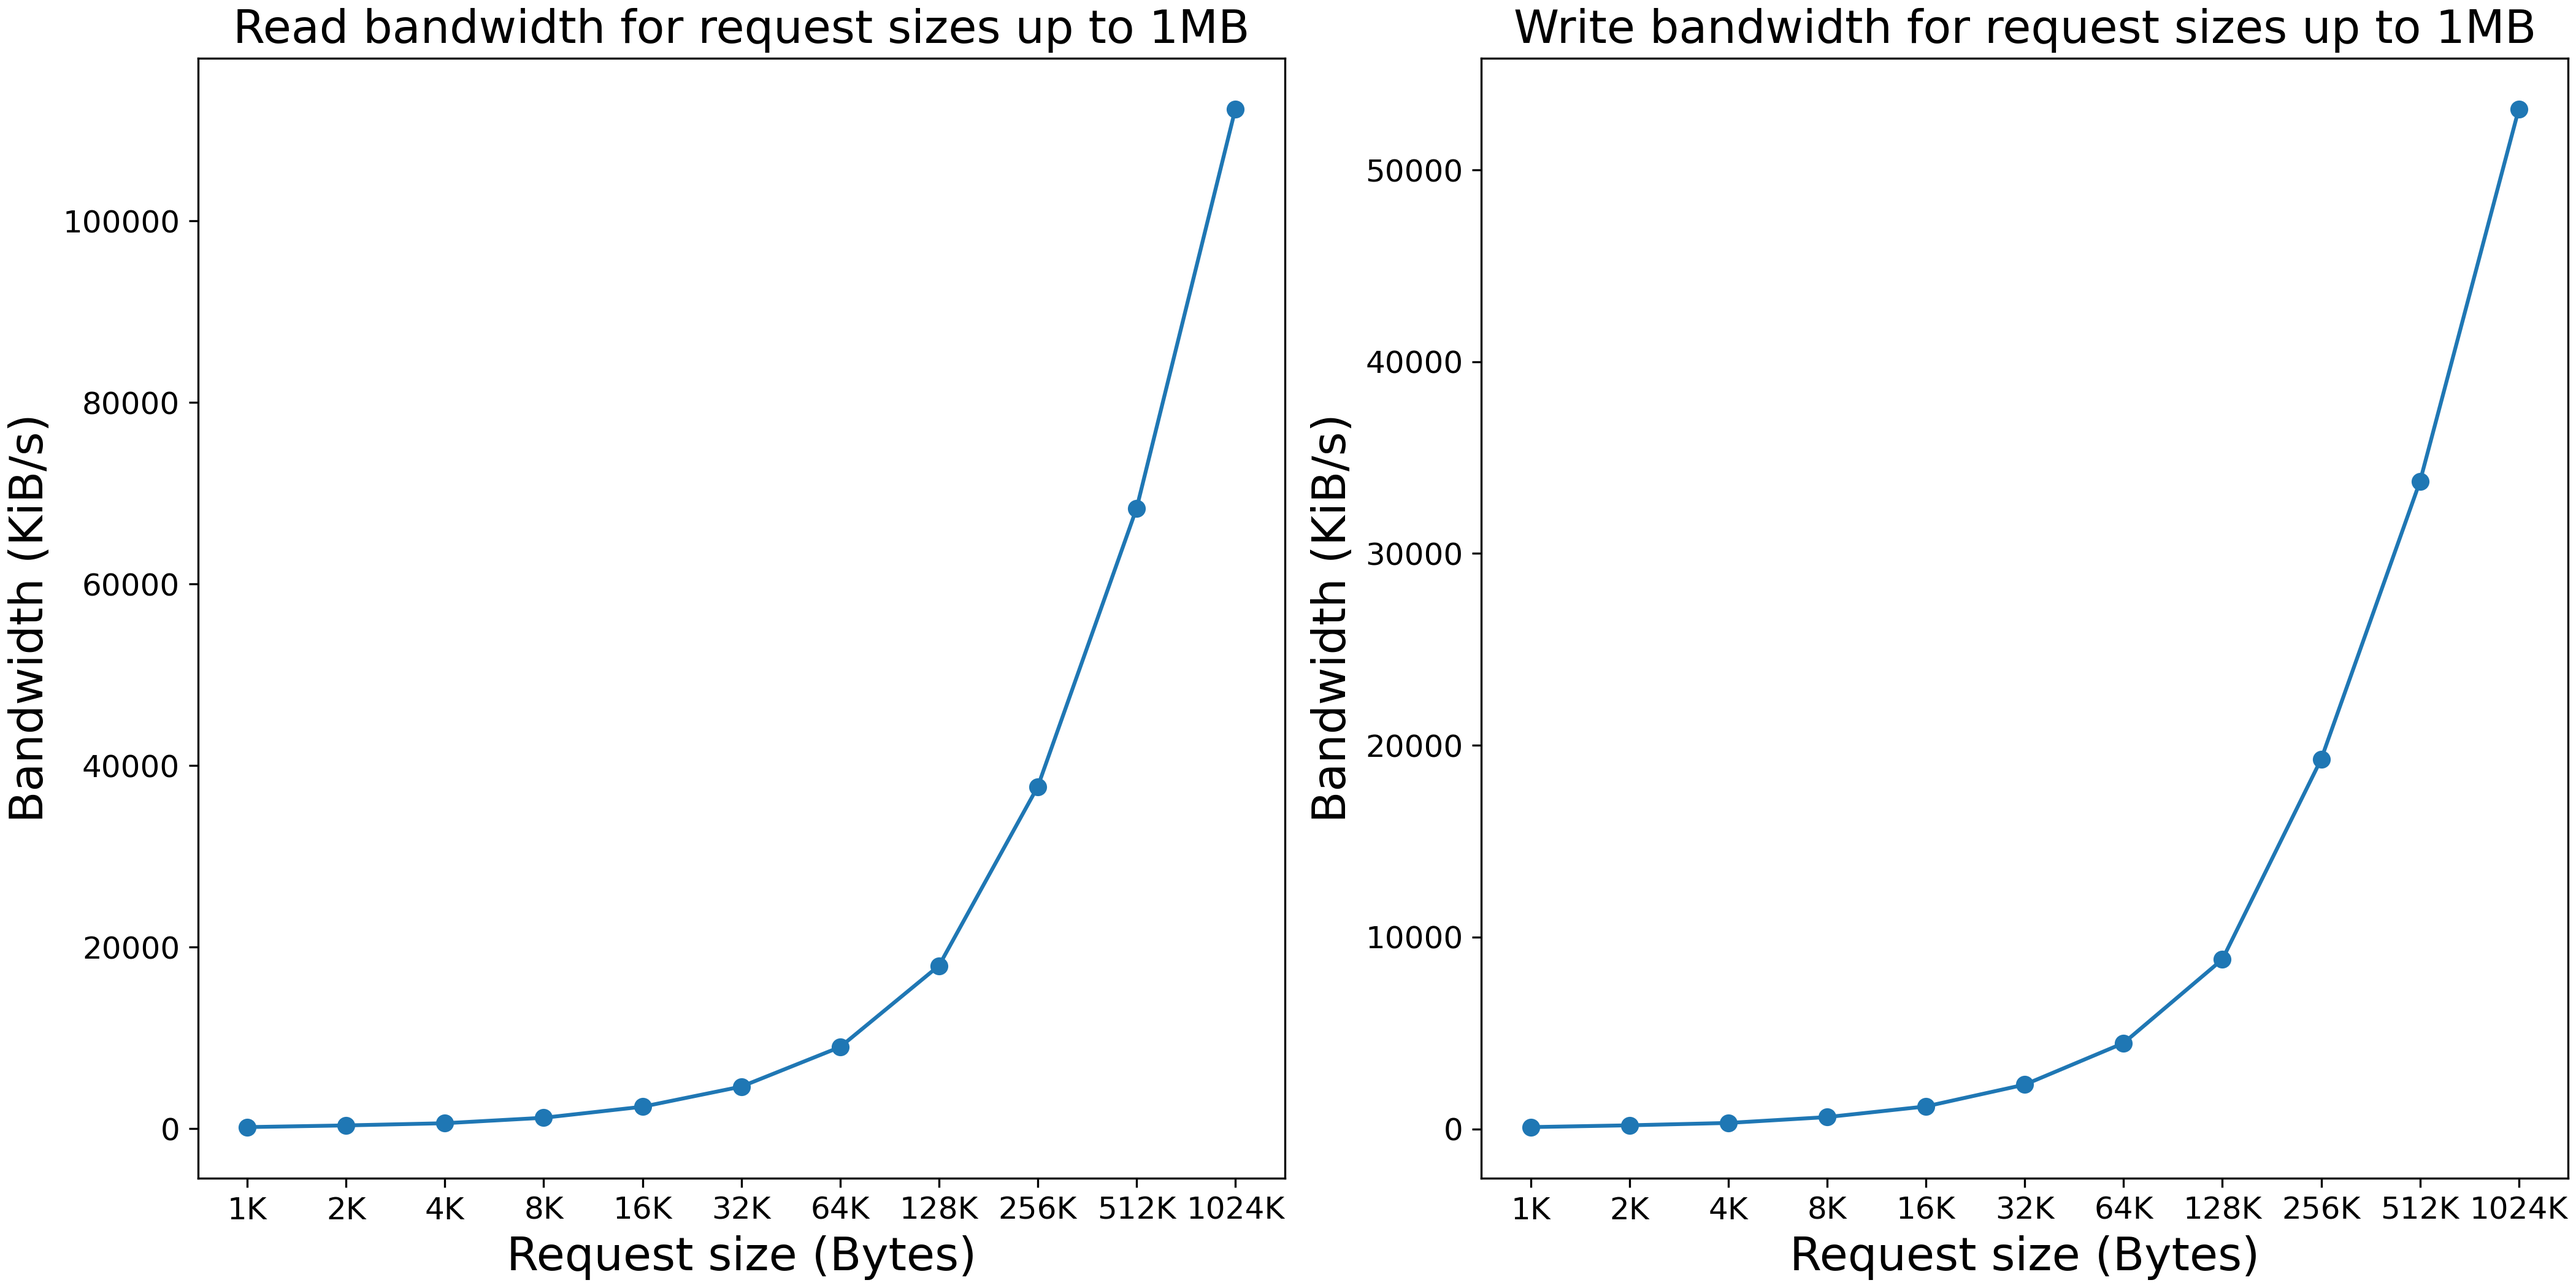
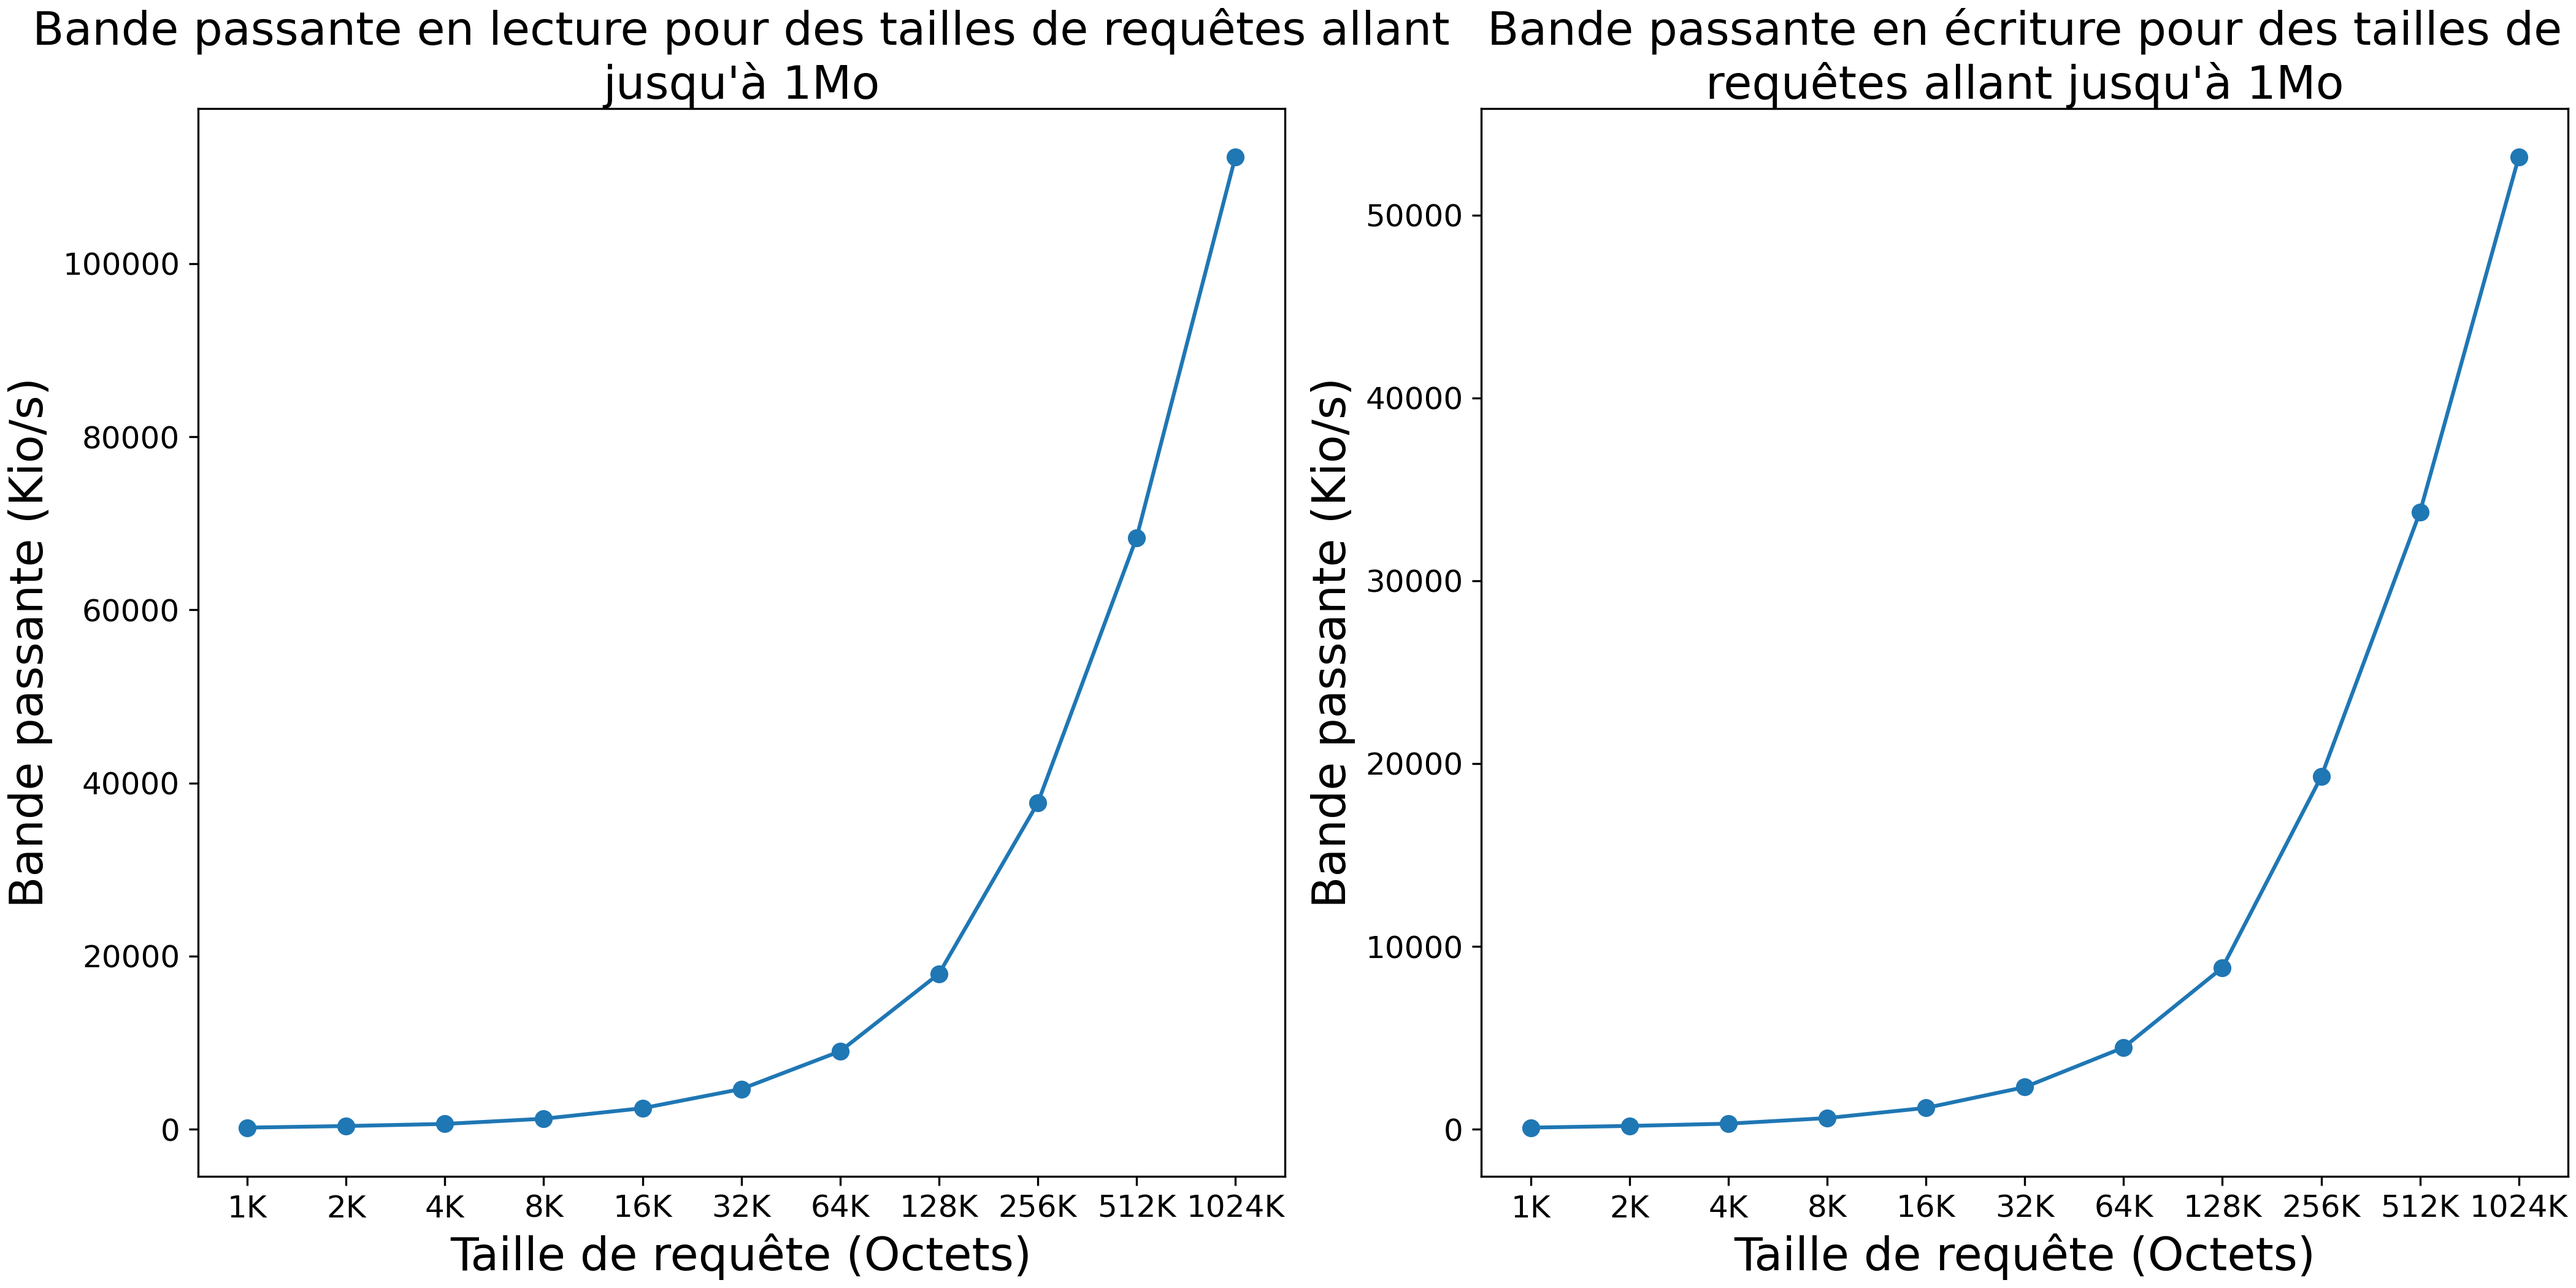
Plot text in french

diff --git a/question_1/graph.py b/question_1/graph.py
@@ -39,22 +39,28 @@ plt.style.use("../plot_params.mplstyle")
 fig, (ax_read, ax_write) = plt.subplots(1, 2, figsize=(14, 7), layout="constrained")
 
 x = np.arange(0, 101, 12.5)
-ax_read.plot(x, seq_read_bw, marker="o", label="sequential")
-ax_read.plot(x, rand_read_bw, marker="o", label="random")
+ax_read.plot(x, seq_read_bw, marker="o", label="séquentiel")
+ax_read.plot(x, rand_read_bw, marker="o", label="aléatoire")
 
-ax_read.set_title("Bandwidth for I/O operations with 100 to 0% of reads")
-ax_read.set_xlabel("Percentage of reads")
-ax_read.set_ylabel("Bandwidth (KiB/s)")
+# ax_read.set_title("Bandwidth for I/O operations with 100 to 0% of reads")
+# ax_read.set_xlabel("Percentage of reads")
+# ax_read.set_ylabel("Bandwidth (KiB/s)")
+ax_read.set_title("Bande passante pour des tâches I/O avec 100 à 0% de lectures", wrap=True)
+ax_read.set_xlabel("Pourcentage de lectures")
+ax_read.set_ylabel("Bande passante (Kio/s)")
 ax_read.set_xticks(x)
 ax_read.set_xticklabels([f"{100 - p}%" for p in x])
 ax_read.legend()
 
-ax_write.plot(x, seq_write_bw, marker="o", label="sequential")
-ax_write.plot(x, rand_write_bw, marker="o", label="random")
+ax_write.plot(x, seq_write_bw, marker="o", label="séquentiel")
+ax_write.plot(x, rand_write_bw, marker="o", label="aléatoire")
 
-ax_write.set_title("Bandwidth for I/O operations with 0 to 100% of writes", wrap=True)
-ax_write.set_xlabel("Percentage of writes")
-ax_write.set_ylabel("Bandwidth (KiB/s)")
+# ax_write.set_title("Bandwidth for I/O operations with 0 to 100% of writes", wrap=True)
+# ax_write.set_xlabel("Percentage of writes")
+# ax_write.set_ylabel("Bandwidth (KiB/s)")
+ax_write.set_title("Bande passante pour des tâches I/O avec O à 100% d'écritures", wrap=True)
+ax_write.set_xlabel("Pourcentage d'écritures")
+ax_write.set_ylabel("Bande passante (Kio/s)")
 ax_write.set_xticks(x)
 ax_write.set_xticklabels([f"{p}%" for p in x])
 ax_write.legend()
@@ -70,15 +76,15 @@ fig, ax = plt.subplots(1, figsize=(8, 6), layout="constrained")
 
 x = np.arange(0, 101, 12.5)
 
-ax.plot(x, seq_read_bw, marker="o", label="sequential read")
-ax.plot(x, rand_read_bw, marker="o", label="random read")
+ax.plot(x, seq_read_bw, marker="o", label="lecture séquentielle")
+ax.plot(x, rand_read_bw, marker="o", label="lecture aléatoire")
 
-ax.plot(x, seq_write_bw, marker="o", label="sequential write")
-ax.plot(x, rand_write_bw, marker="o", label="random write")
+ax.plot(x, seq_write_bw, marker="o", label="écriture séquentielle")
+ax.plot(x, rand_write_bw, marker="o", label="écriture aléatoire")
 
-ax.set_title("Bandwidth for I/O operations with 100 to 0% of reads", wrap=True)
-ax.set_xlabel("Percentage of reads")
-ax.set_ylabel("Bandwidth (KiB/s)")
+ax.set_title("Bande passante pour des tâches I/O avec 100 à 0% de lectures", wrap=True)
+ax.set_xlabel("Pourcentage de lectures")
+ax.set_ylabel("Bande passante (Kio/s)")
 ax.set_xticks(x)
 ax.set_xticklabels([f"{p}%" for p in x])
 # ax.set_yscale("symlog")

diff --git a/question_4/graph.py b/question_4/graph.py
@@ -60,16 +60,22 @@ plt.style.use("../plot_params.mplstyle")
 fig, (ax_read, ax_write) = plt.subplots(1, 2, figsize=(14, 7), layout="constrained")
 
 ax_read.bar(x, read_means)
-ax_read.set_title("Mean read bandwidth for jobs with 1 to 8 processes", wrap=True)
-ax_read.set_xlabel("Number of processes")
-ax_read.set_ylabel("Mean bandwidth (KiB/s)")
+# ax_read.set_title("Mean read bandwidth for jobs with 1 to 8 processes", wrap=True)
+# ax_read.set_xlabel("Number of processes")
+# ax_read.set_ylabel("Mean bandwidth (KiB/s)")
+ax_read.set_title("Bande passante moyenne en lecture pour des jobs utilisant 1 à 8 processus", wrap=True)
+ax_read.set_xlabel("Nombre de processus")
+ax_read.set_ylabel("Bande passante moyenne (Kio/s)")
 ax_read.set_xticks(x)
 ax_read.set_xticklabels(nb_procs)
 
 ax_write.bar(x, write_means)
-ax_write.set_title("Mean write bandwidth for jobs with 1 to 8 processes", wrap=True)
-ax_write.set_xlabel("Number of processes")
-ax_write.set_ylabel("Mean bandwidth (KiB/s)")
+# ax_write.set_title("Mean write bandwidth for jobs with 1 to 8 processes", wrap=True)
+# ax_write.set_xlabel("Number of processes")
+# ax_write.set_ylabel("Mean bandwidth (KiB/s)")
+ax_write.set_title("Bande passante moyenne en écriture pour des jobs utilisant 1 à 8 processus", wrap=True)
+ax_write.set_xlabel("Nombre de processus")
+ax_write.set_ylabel("Bande passante moyenne (Kio/s)")
 ax_write.set_xticks(x)
 ax_write.set_xticklabels(nb_procs)
 
@@ -86,15 +92,21 @@ summed_write_bw = stats["summed_write"]
 fig, (ax_read, ax_write) = plt.subplots(1, 2, figsize=(14, 7), layout="constrained")
 
 ax_read.plot(x, summed_read_bw.values(), marker="o")
-ax_read.set_title("Cumulative read bandwidth for jobs with 1 to 8 parallel processes", wrap=True)
-ax_read.set_xlabel("Number of processes")
-ax_read.set_ylabel("Bandwidth (KiB/s)")
+# ax_read.set_title("Cumulative read bandwidth for jobs with 1 to 8 parallel processes", wrap=True)
+# ax_read.set_xlabel("Number of processes")
+# ax_read.set_ylabel("Bandwidth (KiB/s)")
+ax_read.set_title("Bande passante cumulée en lecture pour des jobs utilisant 1 à 8 processus", wrap=True)
+ax_read.set_xlabel("Nombre de processus")
+ax_read.set_ylabel("Bande passante (Kio/s)")
 ax_read.set_xticks(x)
 
 ax_write.plot(x, summed_write_bw.values(), marker="o")
-ax_write.set_title("Cumulative write bandwidth for jobs with 1 to 8 parallel processes", wrap=True)
-ax_write.set_xlabel("Number of processes")
-ax_write.set_ylabel("Bandwidth (KiB/s)")
+# ax_write.set_title("Cumulative write bandwidth for jobs with 1 to 8 parallel processes", wrap=True)
+# ax_write.set_xlabel("Number of processes")
+# ax_write.set_ylabel("Bandwidth (KiB/s)")
+ax_write.set_title("Bande passante cumulée en écriture pour des jobs utilisant 1 à 8 processus", wrap=True)
+ax_write.set_xlabel("Nombre de processus")
+ax_write.set_ylabel("Bande passante (Kio/s)")
 ax_write.set_xticks(x)
 
 if args.output is not None:

diff --git a/question_2/graph.py b/question_2/graph.py
@@ -41,17 +41,18 @@ x = np.arange(len(var_read_bw))
 
 ax_read.plot(x, var_read_bw, marker="o")
 
-ax_read.set_title("Read bandwidth for request sizes up to 1MB")
-ax_read.set_xlabel("Request size (Bytes)")
-ax_read.set_ylabel("Bandwidth (KiB/s)")
+ax_read.set_title("Bande passante en lecture pour des tailles de requêtes allant jusqu'à 1Mo", wrap=True)
+ax_read.set_xlabel("Taille de requête (Octets)")
+ax_read.set_ylabel("Bande passante (Kio/s)")
 ax_read.set_xticks(x)
 ax_read.set_xticklabels(block_sizes)
 
 ax_write.plot(x, var_write_bw, marker="o")
 
-ax_write.set_title("Write bandwidth for request sizes up to 1MB")
-ax_write.set_xlabel("Request size (Bytes)")
-ax_write.set_ylabel("Bandwidth (KiB/s)")
+# ax_write.set_title("Write bandwidth for request sizes up to 1MB")
+ax_write.set_title("Bande passante en écriture pour des tailles de requêtes allant jusqu'à 1Mo", wrap=True)
+ax_write.set_xlabel("Taille de requête (Octets)")
+ax_write.set_ylabel("Bande passante (Kio/s)")
 ax_write.set_xticks(x)
 ax_write.set_xticklabels(block_sizes)
 

diff --git a/question_3/graph.py b/question_3/graph.py
@@ -34,9 +34,12 @@ x = np.arange(1, len(completion_latency) + 1)
 
 # ax.plot(x, completion_latency, marker="o", label="Completion latency")
 ax.plot(x, latency, marker="o")#, label="Latency")
-ax.set_title("Latencies for a task with different request sizes")
-ax.set_xlabel("Decile")
-ax.set_ylabel("Latency (ns)")
+# ax.set_title("Latencies for a task with different request sizes")
+# ax.set_xlabel("Decile")
+# ax.set_ylabel("Latency (ns)")
+ax.set_title("Latence pour un tâche composée de requêtes de plusieurs tailles", wrap=True)
+ax.set_xlabel("Décile")
+ax.set_ylabel("Latence (ns)")
 # ax.legend()
 
 if args.output is not None:
